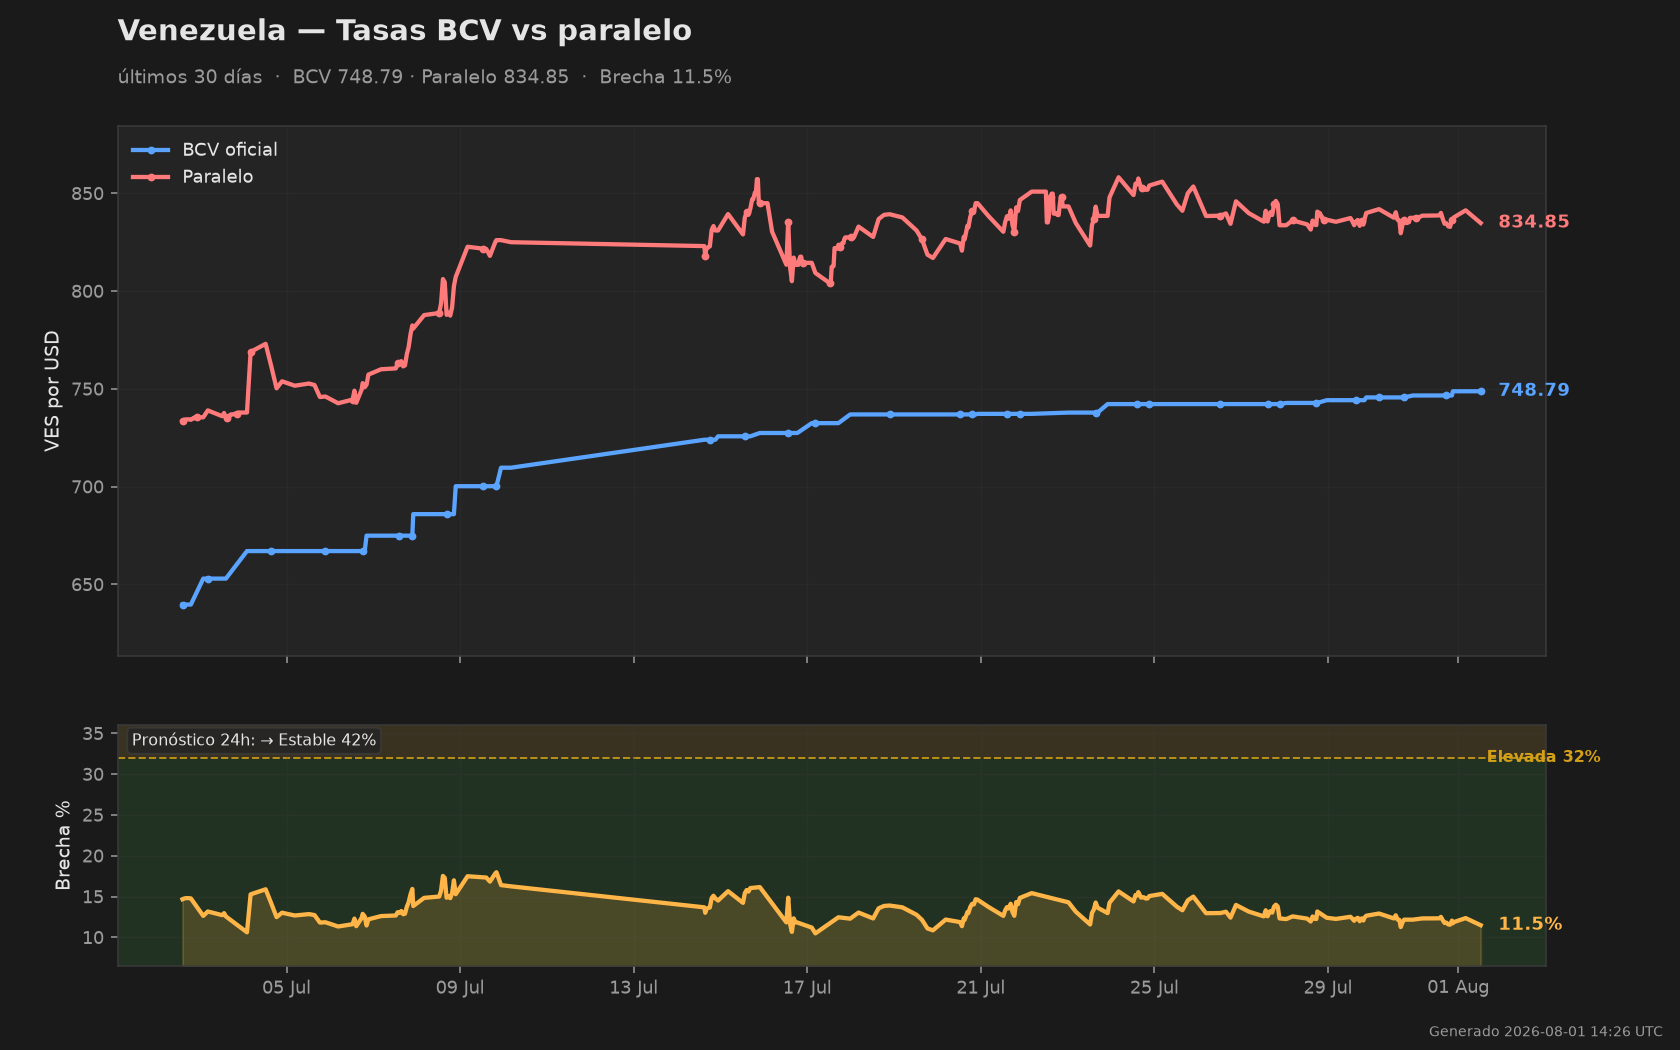
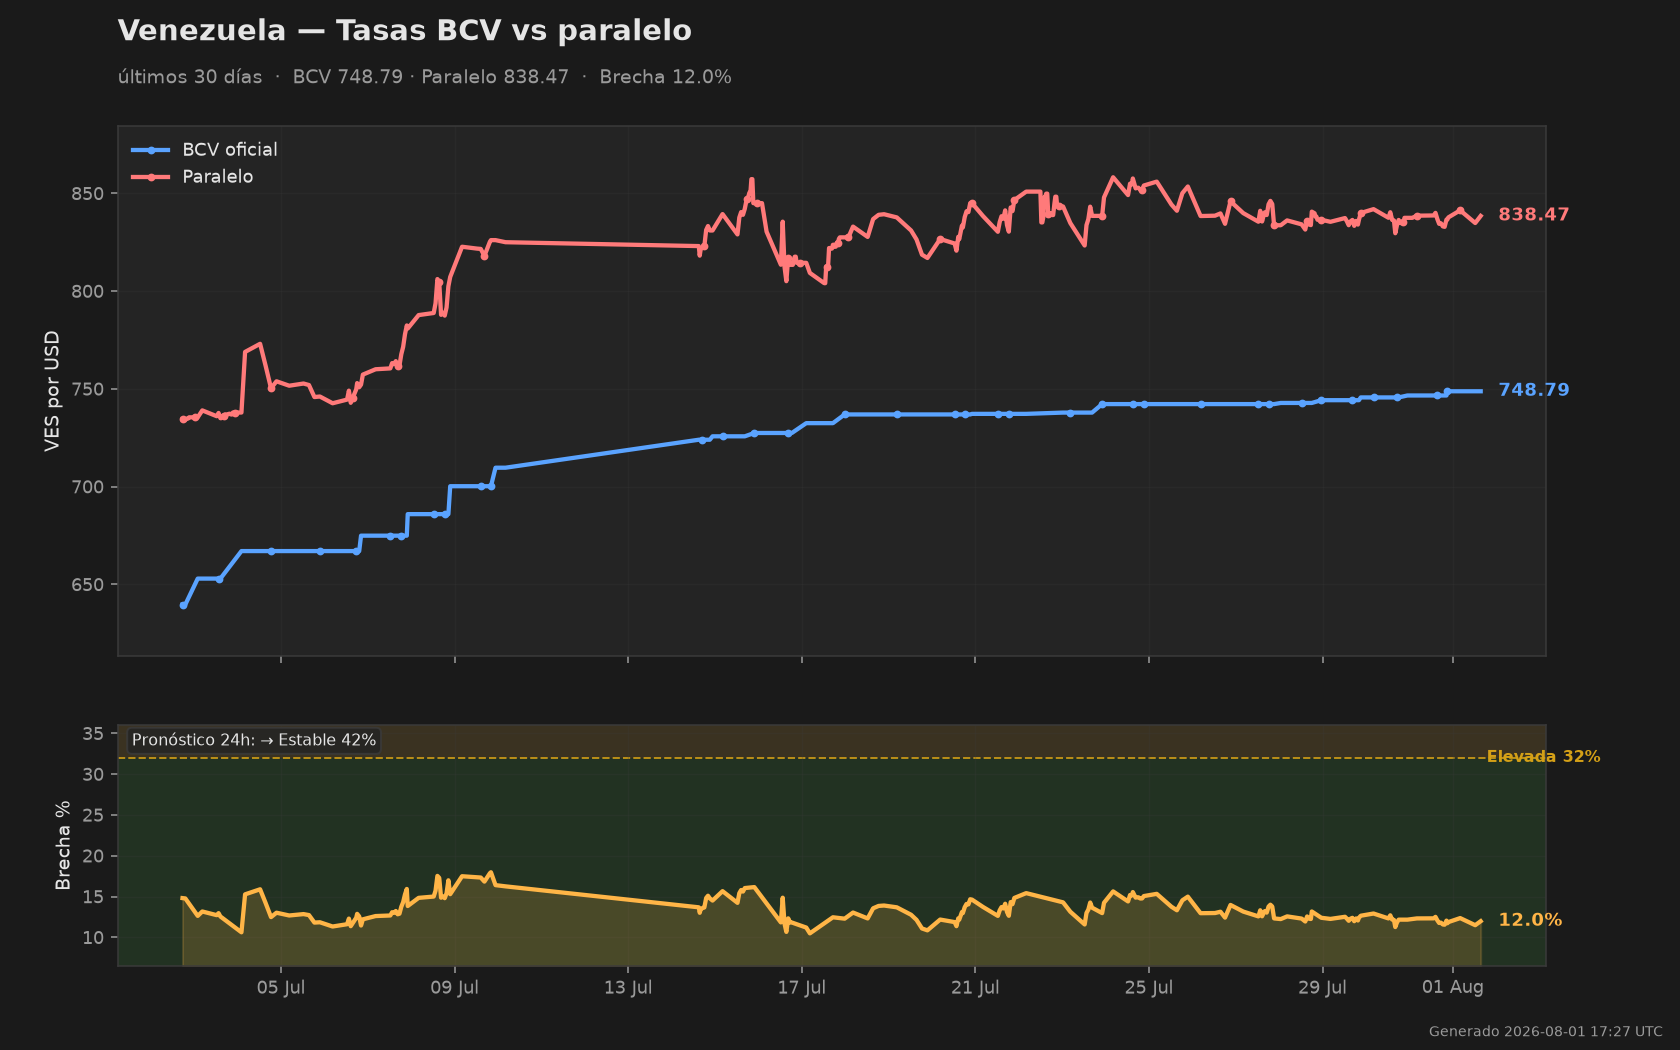
Dashboard update 2026-08-01 17:27 UTC

diff --git a/README.md b/README.md
@@ -11,11 +11,11 @@
 | Metric · Métrica | Value · Valor |
 |---|---|
 | BCV Oficial | **748.79** VES/USD |
-| Paralelo | **834.85** VES/USD |
-| Brecha · Spread | **11.5%** |
-| Binance P2P USDT/VES | **851.23** VES/USDT (+2.0% vs paralelo) |
+| Paralelo | **838.47** VES/USD |
+| Brecha · Spread | **12.0%** |
+| Binance P2P USDT/VES | **847.06** VES/USDT (+1.0% vs paralelo) |
 | **Pronóstico 24h · 24h Forecast** | **→ Estable · Stable (57%)** |
-| Actualizado · Updated | 2026-08-01 12:25 UTC |
+| Actualizado · Updated | 2026-08-01 15:26 UTC |
 
 ![Venezuela BCV vs parallel rate — last 30 days](data/chart.png)
 
